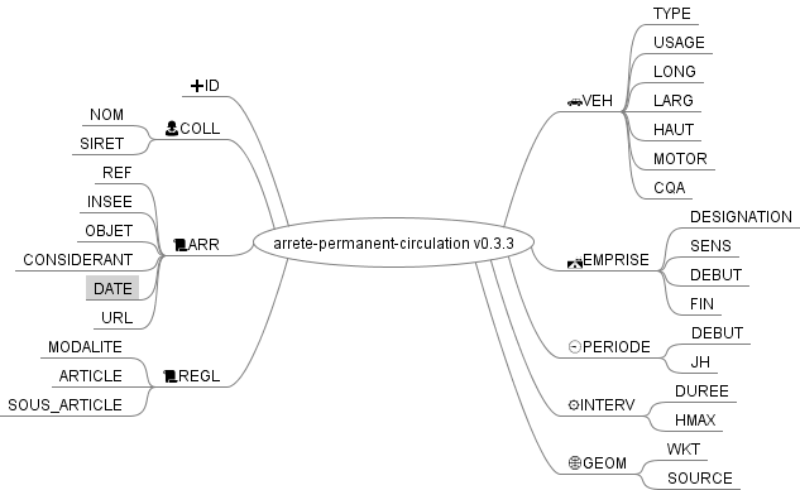
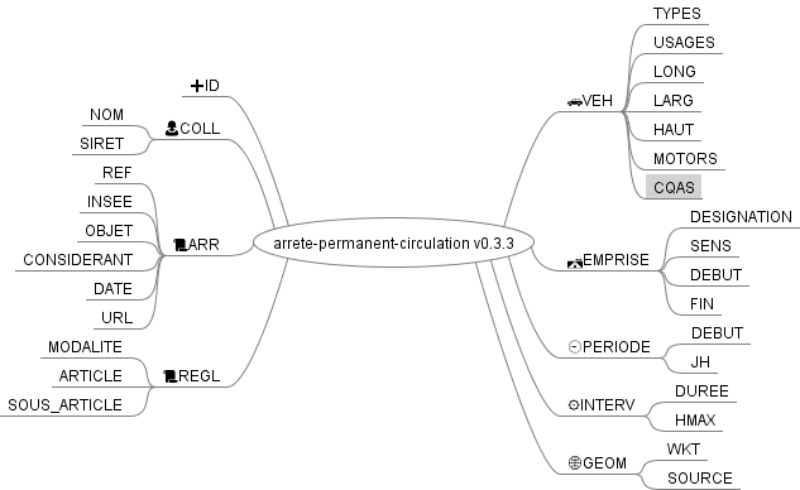
maj de la mm

diff --git a/arrete-permanent-circulation-v2.mm b/arrete-permanent-circulation-v2.mm
@@ -2,13 +2,13 @@
 <!-- To view this file, download free mind mapping software FreeMind from http://freemind.sourceforge.net -->
 <node CREATED="1619865105173" ID="ID_1749962809" MODIFIED="1620394174024" TEXT="arrete-permanent-circulation v0.3.3">
 <node CREATED="1619865210914" ID="ID_1209478113" MODIFIED="1620393957368" POSITION="right" TEXT="&#xd83d;&#xde97;VEH">
-<node CREATED="1619865419573" ID="ID_894149425" MODIFIED="1619865421842" TEXT="TYPE"/>
-<node CREATED="1619865255919" ID="ID_1034836512" MODIFIED="1619865257560" TEXT="USAGE"/>
+<node CREATED="1619865419573" ID="ID_894149425" MODIFIED="1626787362674" TEXT="TYPES"/>
+<node CREATED="1619865255919" ID="ID_1034836512" MODIFIED="1626787361365" TEXT="USAGES"/>
 <node CREATED="1619865258031" ID="ID_333236960" MODIFIED="1619865263161" TEXT="LONG"/>
 <node CREATED="1619865263657" ID="ID_1401226823" MODIFIED="1619865264751" TEXT="LARG"/>
 <node CREATED="1619865264950" ID="ID_1247136782" MODIFIED="1619865266106" TEXT="HAUT"/>
-<node CREATED="1619865266282" ID="ID_270302087" MODIFIED="1619865268367" TEXT="MOTOR"/>
-<node CREATED="1619865430858" ID="ID_389151941" MODIFIED="1619865433092" TEXT="CQA"/>
+<node CREATED="1619865266282" ID="ID_270302087" MODIFIED="1626787365606" TEXT="MOTORS"/>
+<node CREATED="1619865430858" ID="ID_389151941" MODIFIED="1626787366996" TEXT="CQAS"/>
 </node>
 <node CREATED="1619865212205" ID="ID_202979938" MODIFIED="1623157718409" POSITION="right" TEXT="&#xd83d;&#xdee3;EMPRISE">
 <node CREATED="1619865232855" ID="ID_1755414890" MODIFIED="1623157725069" TEXT="DESIGNATION"/>
